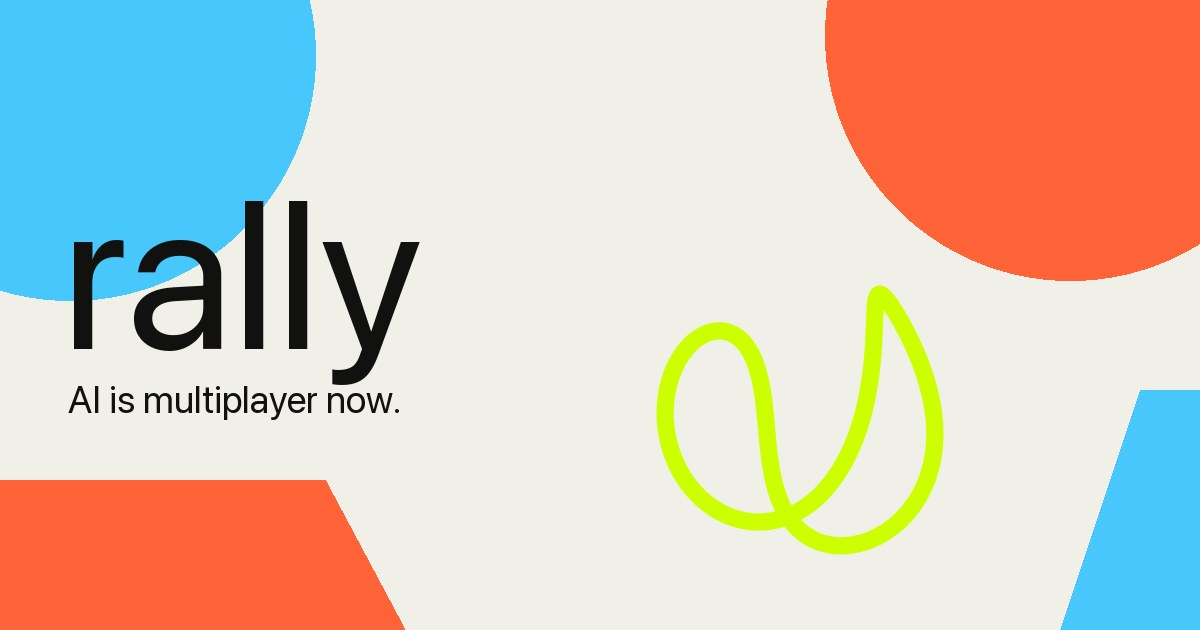
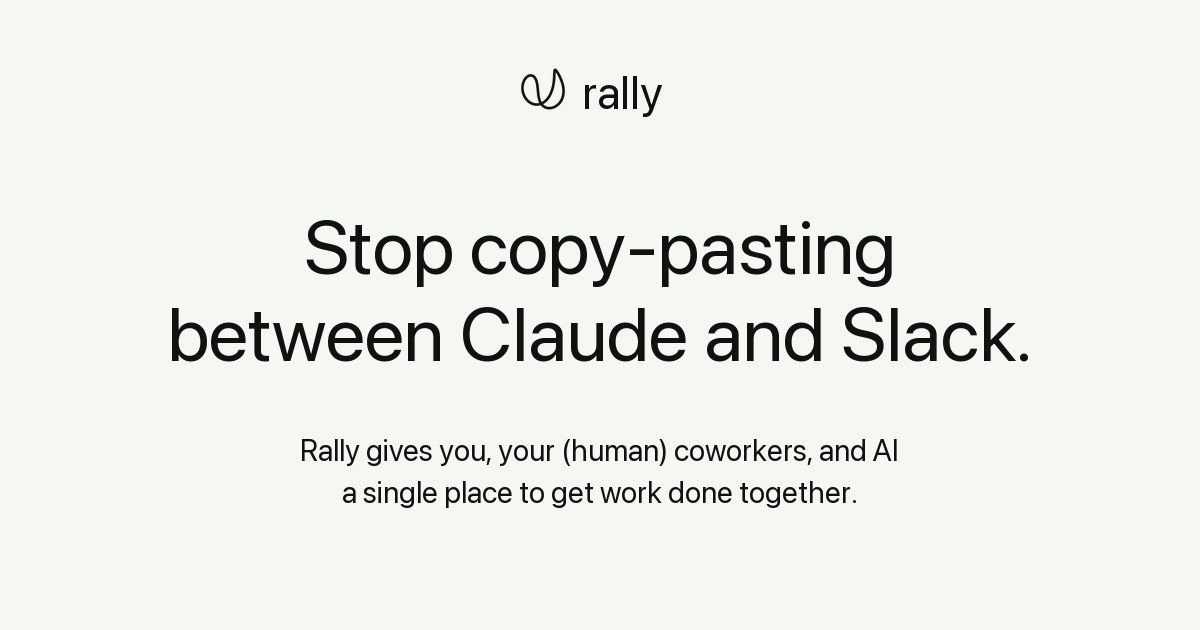
Match Rally link previews to the new landing page

diff --git a/apps/site/index.html b/apps/site/index.html
@@ -13,8 +13,8 @@
     <meta property="og:title" content="{{access.title}}" />
     <meta property="og:description" content="{{access.description}}" />
     <meta property="og:url" content="https://rallywith.ai/" />
-    <meta property="og:image" content="https://rallywith.ai/rally-social.jpg" />
-    <meta property="og:image:secure_url" content="https://rallywith.ai/rally-social.jpg" />
+    <meta property="og:image" content="https://rallywith.ai/rally-social-v01.jpg" />
+    <meta property="og:image:secure_url" content="https://rallywith.ai/rally-social-v01.jpg" />
     <meta property="og:image:type" content="image/jpeg" />
     <meta property="og:image:alt" content="{{access.title}}." />
     <meta property="og:image:width" content="1200" />
@@ -22,7 +22,7 @@
     <meta name="twitter:card" content="summary_large_image" />
     <meta name="twitter:title" content="{{access.title}}" />
     <meta name="twitter:description" content="{{access.description}}" />
-    <meta name="twitter:image" content="https://rallywith.ai/rally-social.jpg" />
+    <meta name="twitter:image" content="https://rallywith.ai/rally-social-v01.jpg" />
     <meta name="twitter:image:alt" content="{{access.title}}." />
     <link rel="canonical" href="https://rallywith.ai/" />
     <link rel="stylesheet" href="/src/landing.css" />

diff --git a/scripts/generate-brand-assets.py b/scripts/generate-brand-assets.py
@@ -159,15 +159,15 @@ def font(size: int, bold: bool = False) -> ImageFont.FreeTypeFont | ImageFont.Im
 
 def social_card() -> Image.Image:
     width, height = 1200, 630
-    result = Image.new("RGBA", (width, height), (240, 239, 232, 255))
+    result = Image.new("RGBA", (width, height), (245, 248, 242, 255))
     draw = ImageDraw.Draw(result)
-    draw.ellipse((-175, -190, 315, 300), fill=SECONDARY)
-    draw.ellipse((825, -210, 1315, 280), fill=(255, 99, 55, 255))
-    draw.polygon(((0, 480), (325, 480), (405, 630), (0, 630)), fill=(255, 99, 55, 255))
-    draw.polygon(((1140, 390), (1200, 390), (1200, 630), (1060, 630)), fill=SECONDARY)
-    draw.text((62, 145), "rally", font=font(210, bold=True), fill=DARK_CANVAS)
-    draw.text((68, 376), "AI is multiplayer now.", font=font(38, bold=True), fill=DARK_CANVAS)
-    result.alpha_composite(mark(420), (590, 210))
+    result.alpha_composite(mark(64, DARK_CANVAS), (511, 57))
+    draw.text((582, 64), "rally", font=font(46, bold=True), fill=DARK_CANVAS)
+    for y, line in ((220, "Stop copy-pasting"), (307, "between Claude and Slack.")):
+        draw.text((width / 2, y), line, anchor="mt", font=font(76), fill=DARK_CANVAS)
+    for y, line in ((439, "Rally gives you, your (human) coworkers, and AI"),
+                    (481, "a single place to get work done together.")):
+        draw.text((width / 2, y), line, anchor="mt", font=font(30), fill=DARK_CANVAS)
     return result
 
 
@@ -245,6 +245,7 @@ def main() -> None:
     if SOCIAL_CARD_FONT.exists():
         social = social_card()
         save_social_card(social, ROOT / "apps" / "site" / "public" / "rally-social.jpg")
+        save_social_card(social, ROOT / "apps" / "site" / "public" / "rally-social-v01.jpg")
         save_social_card(social, ROOT / "apps" / "site" / "public" / "og-2026.jpg")
     else:
         print(f"Skipped the social card: {SOCIAL_CARD_FONT} is only present on macOS")

diff --git a/docs/public-site-telemetry.md b/docs/public-site-telemetry.md
@@ -130,6 +130,16 @@ that reports. Events are sent immediately in batches bounded by the shared
 avoids writing a disposable D1 journey merely to decide whether browser storage
 is allowed.
 
+### 2026-09-21 — Match link previews to the landing page
+
+**What changed:** The social card uses the static pale landing design and collaboration headline. Open Graph and Twitter metadata reference `rally-social-v01.jpg`.
+
+**Why:** Sharing the homepage in Messages still displayed the old colorful artwork.
+
+**Considered and rejected:** Replacing only the bytes at the old URL leaves image caches using the old design.
+
+**Consequences:** Keep the versioned URL aligned with the generated card; existing Messages previews may retain cached page metadata until their client refreshes it.
+
 ### 2026-09-14 — Configurable deployment isolation
 
 Public-site measurement now consistently uses the Global endpoint and first-party anonymous epoch. Country-based routing and page-only regional identities are removed alongside the geographical product choice; the existing event registry and preference behavior remain unchanged.
